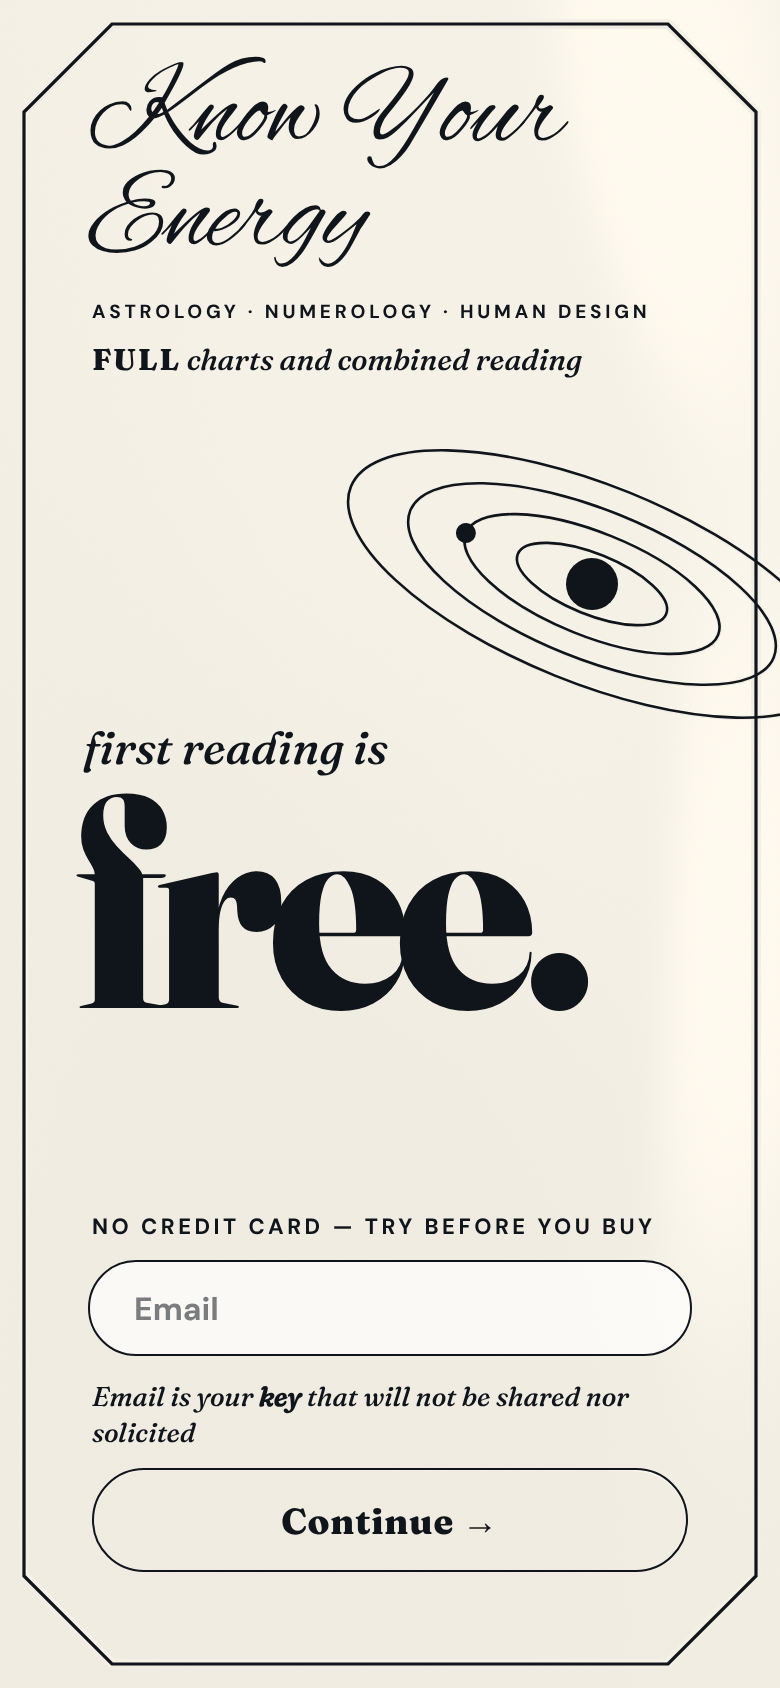
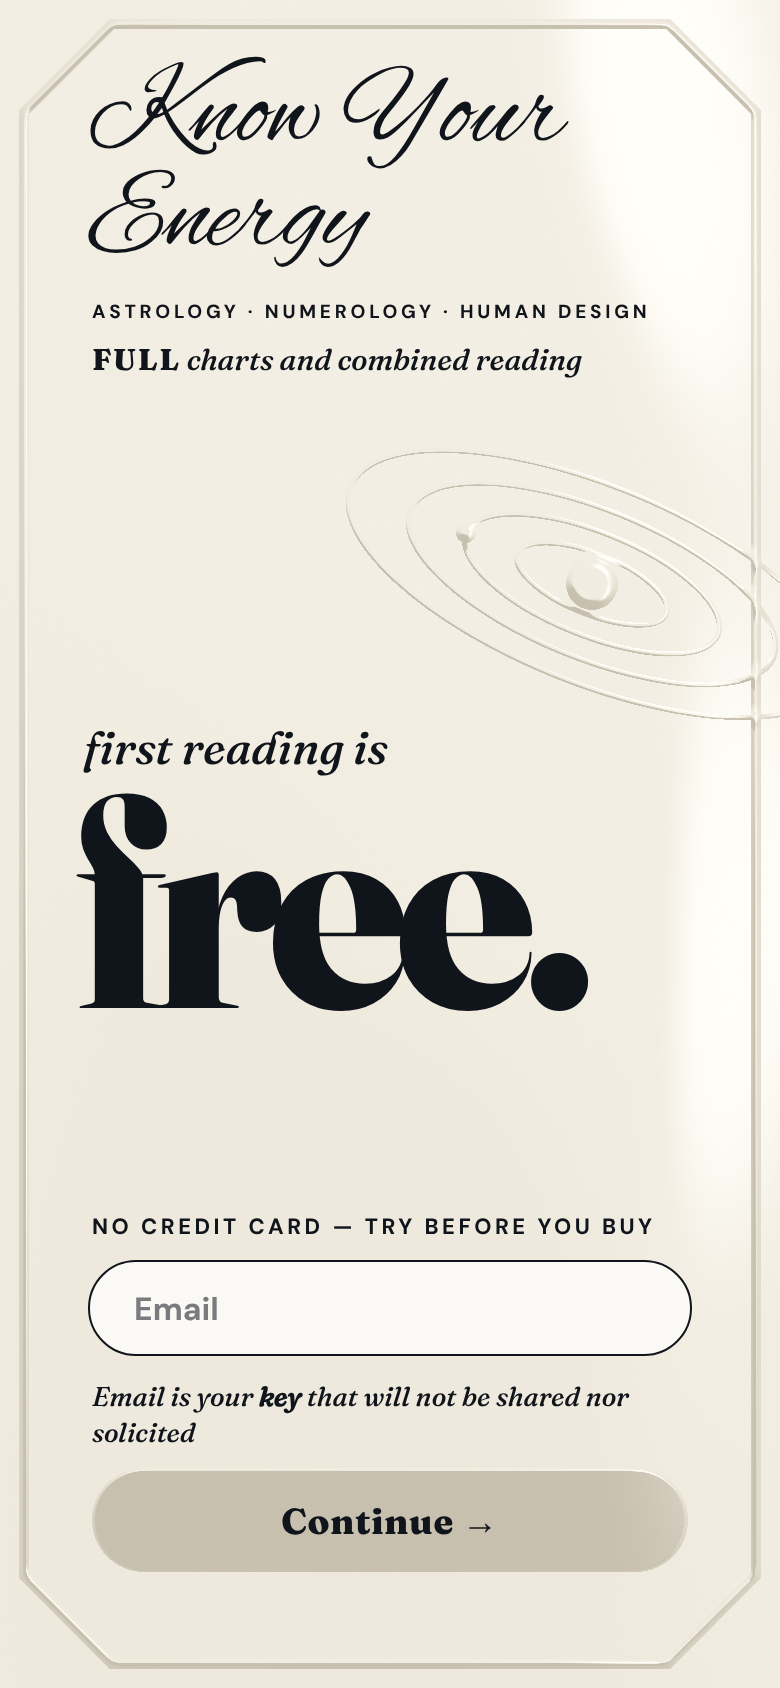
Metal page: restored the silver version's shine and swapped only the colour to alabaster via a brightness ramp
Claude-Session: https://claude.ai/code/session_01DRAcaZvypgnSaCTMdJvvGx

diff --git a/metalpage/page.html b/metalpage/page.html
@@ -15,12 +15,9 @@ html,body{width:390px;height:844px;overflow:hidden;background:#aab0b9;font-famil
 .field{position:absolute;left:44px;right:44px;top:630px;height:48px;border-radius:999px;background:rgba(255,255,255,.7);border:1.5px solid #10141b;padding:0 22px;display:flex;align-items:center;font-weight:700;font-size:16px}
 .field span{opacity:.55}
 .key{position:absolute;left:46px;top:690px;width:290px;font-family:'Fraunces',serif;font-style:italic;font-weight:500;font-size:13.5px;line-height:1.3}
-.btn{position:absolute;left:46px;width:298px;top:734px;height:52px;border-radius:999px;border:1.5px solid #10141b;display:flex;align-items:center;justify-content:center;font-family:'Fraunces',serif;font-weight:800;font-size:18px;letter-spacing:.02em;color:#10141b}
+.btn{position:absolute;left:46px;width:298px;top:734px;height:52px;display:flex;align-items:center;justify-content:center;font-family:'Fraunces',serif;font-weight:800;font-size:18px;letter-spacing:.02em;color:#10141b}
 </style></head><body>
 <canvas id="c" width="780" height="1688"></canvas>
-<svg id="ink" style="position:absolute;left:0;top:0;width:390px;height:844px;pointer-events:none" viewBox="0 0 390 844" fill="none" stroke="#10141b">
-<path d="M56 12H334L378 56V788L334 832H56L12 788V56Z" stroke-width="1.6"/>
-<g transform="translate(296 292) rotate(22)" stroke-width="1.3"><ellipse rx="40" ry="15.2"/><ellipse rx="68" ry="25.8"/><ellipse rx="98" ry="37.2"/><ellipse rx="130" ry="49.4"/><circle r="13" fill="#10141b" stroke="none"/><circle cx="-68" r="5" fill="#10141b" stroke="none"/><circle cx="130" r="6" fill="#10141b" stroke="none"/></g></svg>
 <div class="wm">Know Your<br>Energy</div>
 <div class="sys">Astrology · Numerology · Human Design</div><div class="fcr"><b>FULL</b> charts and combined reading</div>
 <div class="hl"><span class="a">first reading is</span><span class="b">free.</span></div>
@@ -34,7 +31,7 @@ float hash(vec3 p){p=fract(p*0.3183099+vec3(.1,.2,.3));p*=17.0;return fract(p.x*
 float H(vec2 p){float d=dot(p/vec2(.62,1.12),p/vec2(.62,1.12));return 1.7*(1.-pow(min(d,1.7)/1.7,1.25));}
 vec3 room(vec3 r){
   float sky=smoothstep(-.55,.60,r.y+.25*r.x);
-  float base=mix(1.22,1.42,sky);
+  float base=mix(1.0,1.35,sky);
   float k1=exp((dot(r,uL1)-1.)/.012)*3.0;
   float k2=exp((dot(r,uL2)-1.)/.016)*2.0;
   return vec3(base)+vec3(k1+k2);}
@@ -54,11 +51,14 @@ void main(){
   vec3 Ng=normalize(N+vec3(-hx*9.,-hy*9.,0.));
   vec3 rs=reflect(vec3(0.,0.,-1.),N);
   vec3 rg=reflect(vec3(0.,0.,-1.),Ng);
-  vec3 silver=vec3(1.34)*room(rs);
-  vec3 gold=vec3(1.34)*room(rg);
+  vec3 silver=vec3(.97,.975,.985)*room(rs);
+  vec3 gold=vec3(.97,.975,.99)*roomG(rg);
   float gm=smoothstep(.35,.65,m);
   vec3 c=mix(silver,gold,gm);
-  c=1.-exp(-c*1.75);c*=vec3(1.0,.98,.935);
+  c=1.-exp(-c*1.35);
+  float L=dot(c,vec3(.299,.587,.114));
+  vec3 lo=vec3(.77,.74,.67),mid=vec3(.950,.930,.885),hi=vec3(1.0,.995,.975);
+  c=L<.80?mix(lo,mid,smoothstep(.42,.80,L)):mix(mid,hi,smoothstep(.80,1.,L));
   c+=(hash(vec3(gl_FragCoord.xy,1.))-.5)/255.;
   gl_FragColor=vec4(clamp(c,0.,1.),1.);
 }
